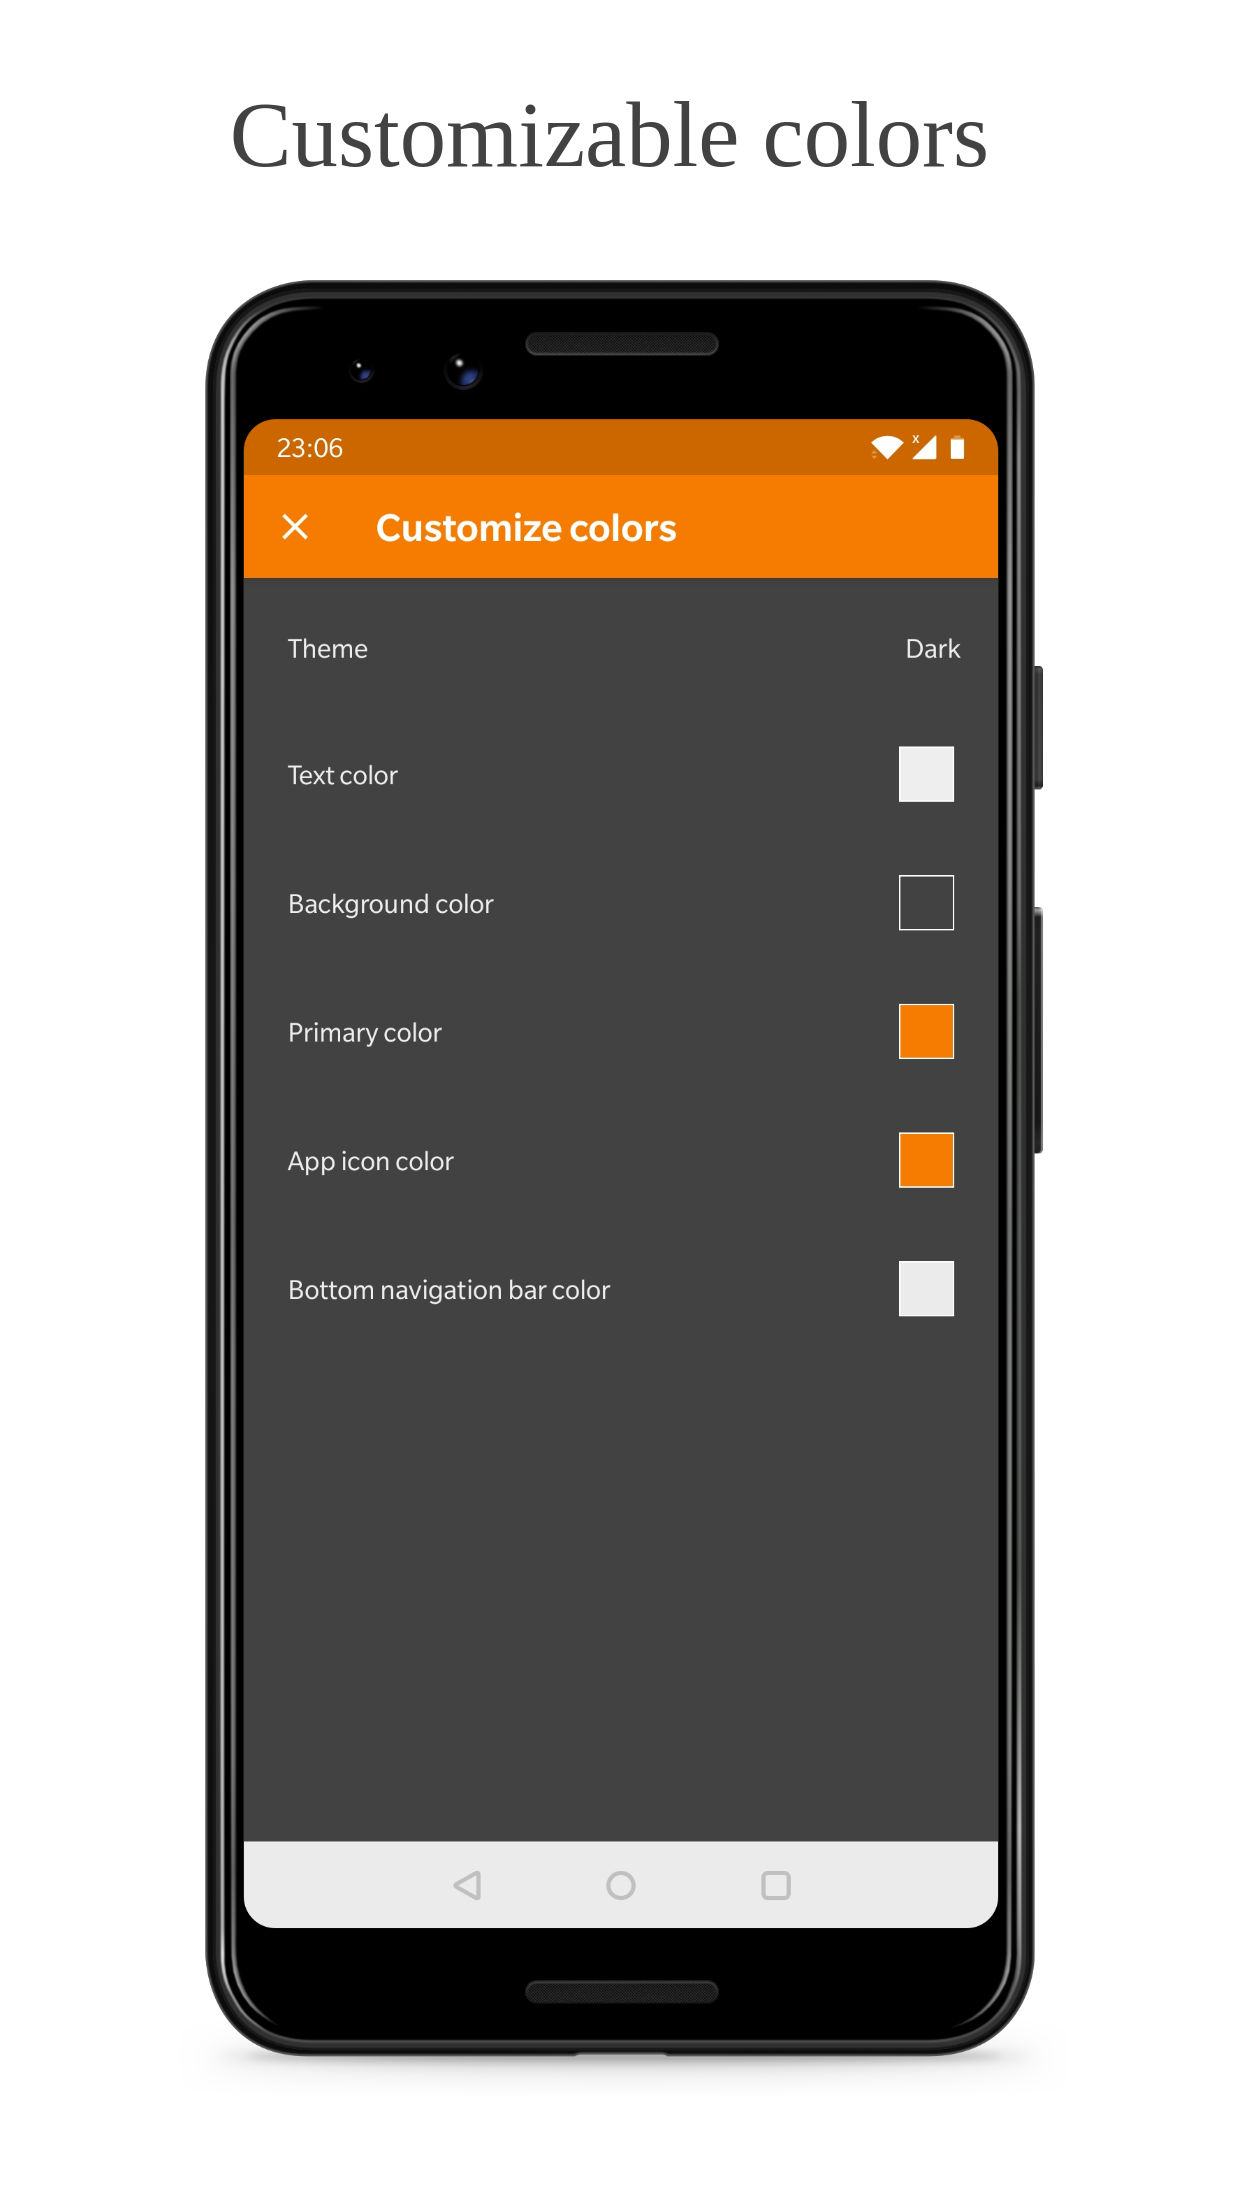
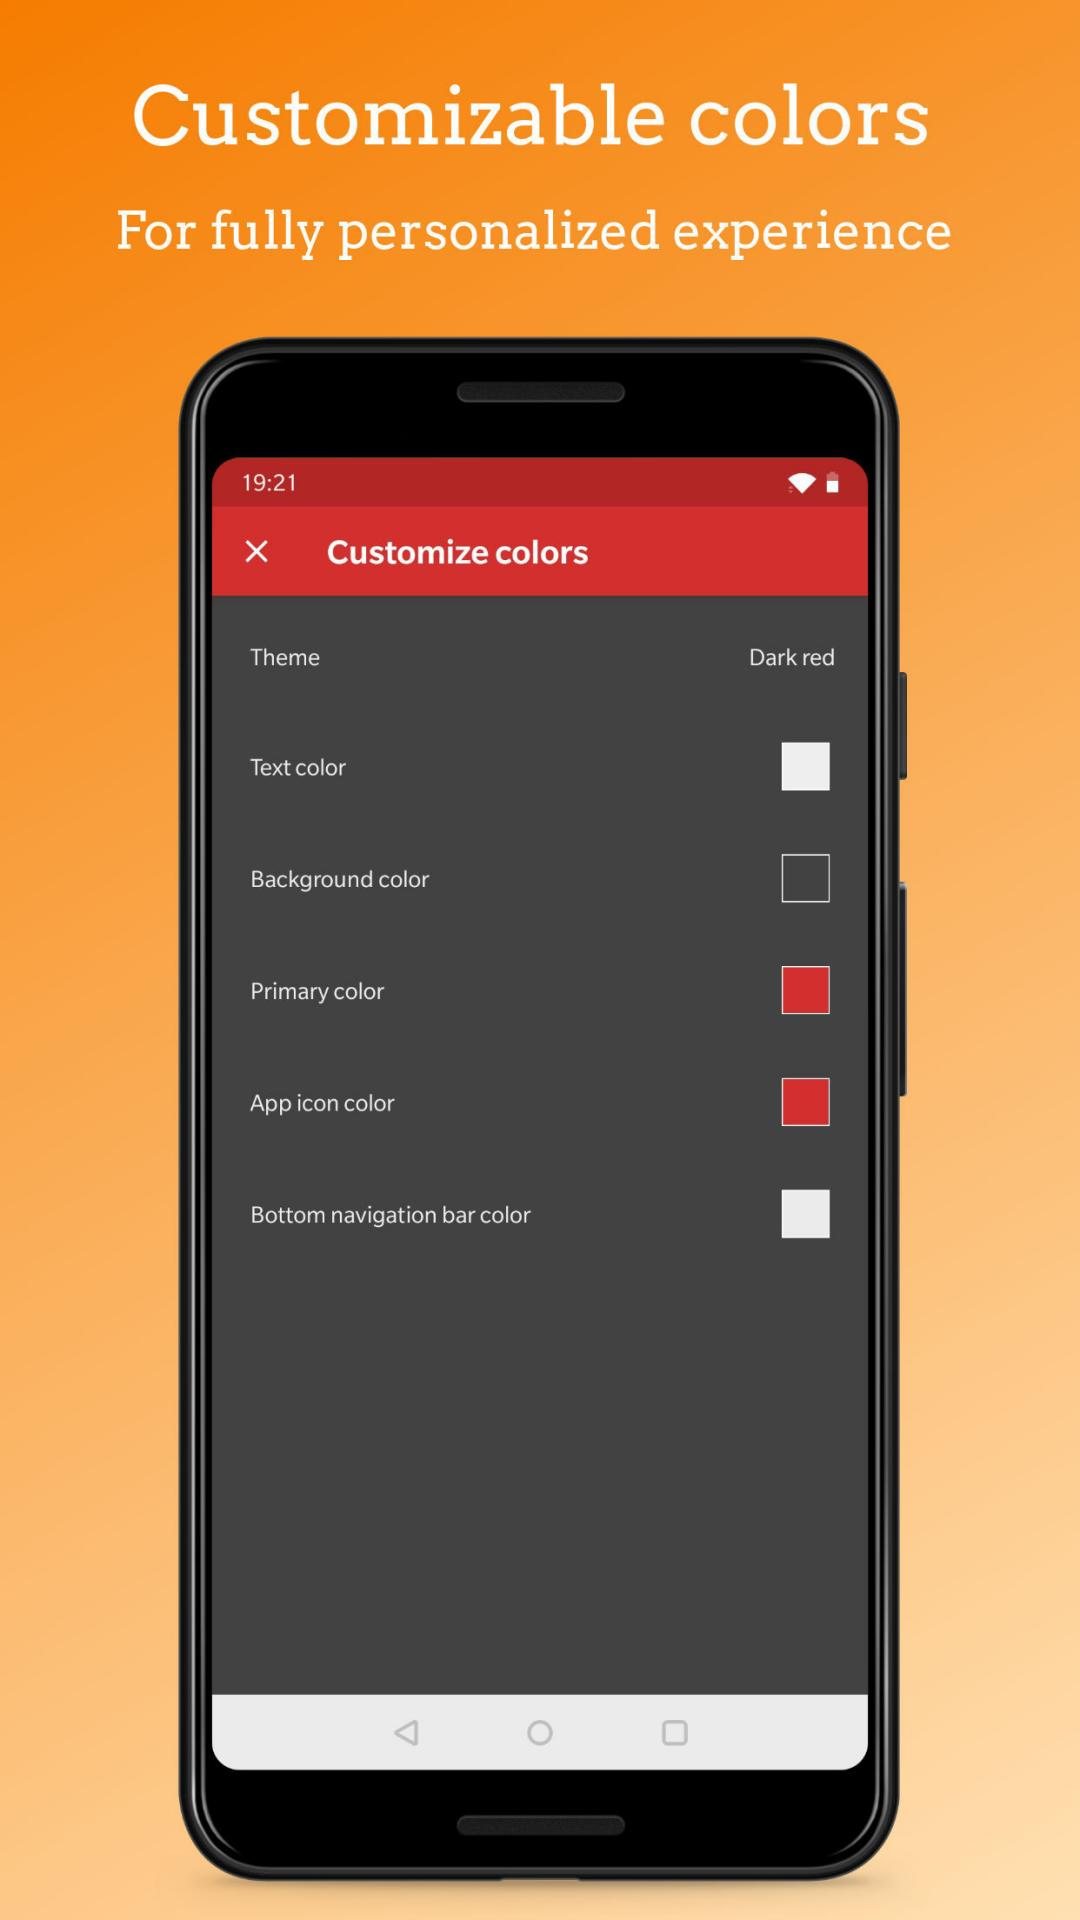
updating app screenshots

diff --git a/README.md b/README.md
@@ -15,7 +15,7 @@ This app is just one piece of a bigger series of apps. You can find the rest of 
 <a href='https://f-droid.org/packages/com.simplemobiletools.calculator'><img src='https://simplemobiletools.com/assets/images/f-droid.png' alt='Get it on F-Droid' height=45 ></a>
 
 <div style="display:flex;">
-<img alt="App image" src="fastlane/metadata/android/en-US/images/phoneScreenshots/app.jpg" width="30%">
+<img alt="App image" src="fastlane/metadata/android/en-US/images/phoneScreenshots/app_1.jpg" width="30%">
 <img alt="App image" src="fastlane/metadata/android/en-US/images/phoneScreenshots/app_2.jpg" width="30%">
 <img alt="App image" src="fastlane/metadata/android/en-US/images/phoneScreenshots/app_3.jpg" width="30%">
 </div>
